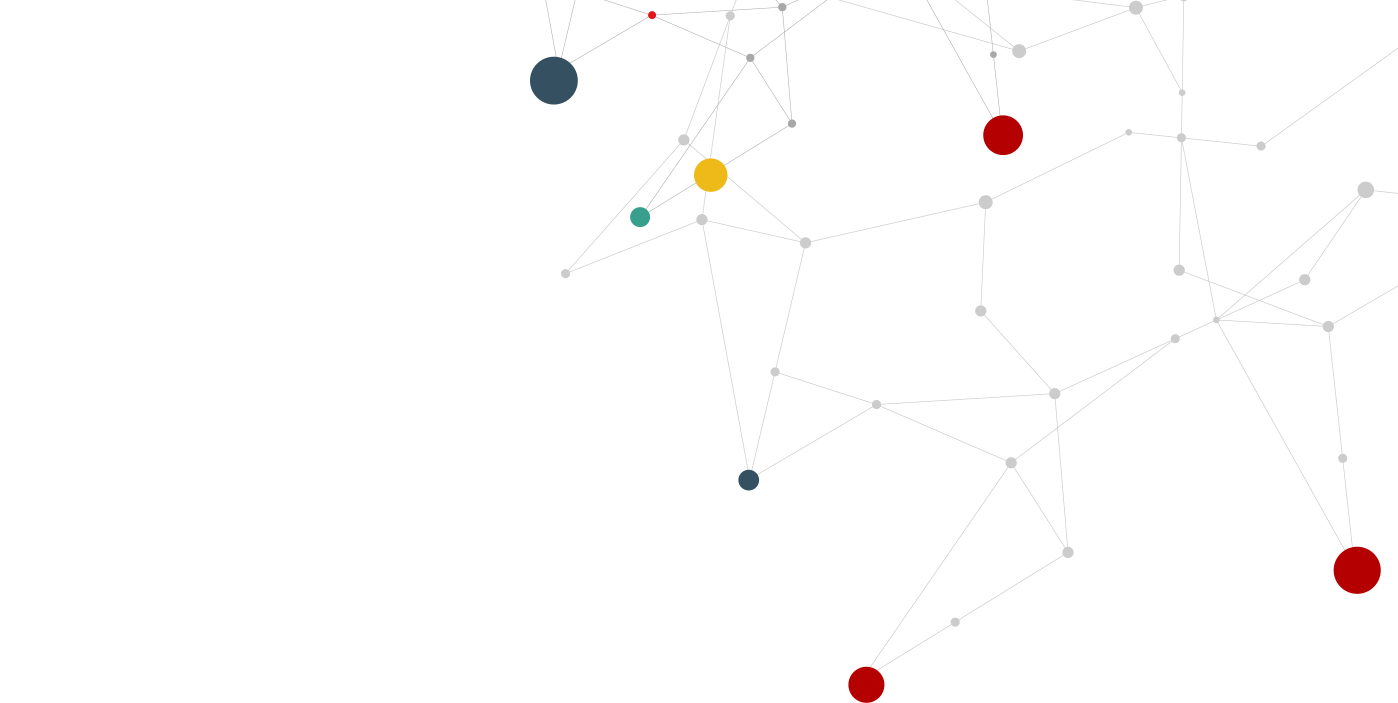
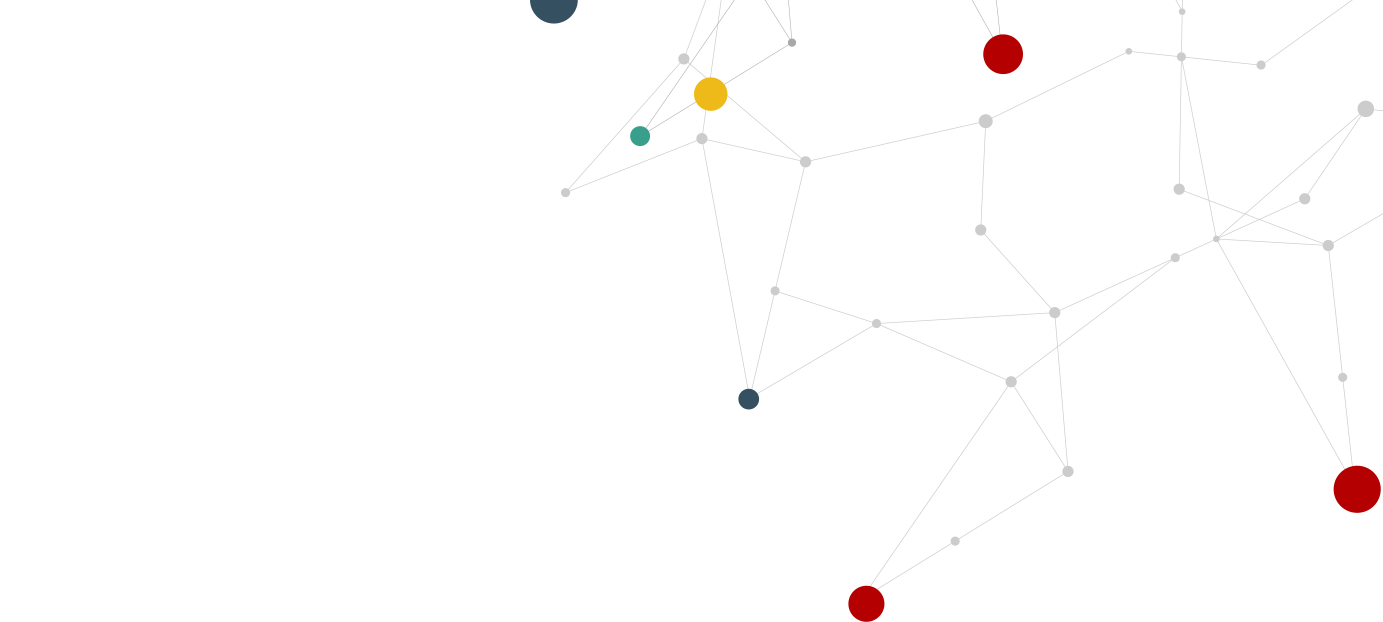
symptom quiz

diff --git a/src/components/pages/Home/QuizSection/QuizSection.js b/src/components/pages/Home/QuizSection/QuizSection.js
@@ -1,0 +1,85 @@
+import PropTypes from 'prop-types';
+import React from 'react';
+import styled from 'styled-components';
+
+import {mediaBreakpointUp} from '../../../../utils/responsive';
+import Dots from './dot-pattern-quiz.png';
+
+const Background = styled.img`
+  min-width: 809px;
+  position: absolute;
+  right: 50%;
+  width: 50%;
+  z-index: -1;
+`;
+
+const Content = styled.div`
+  max-width: 490px;
+  padding: 12rem 0 15rem;
+
+  ${mediaBreakpointUp('lg')} {
+    margin-left: 50%;
+  }
+
+  h2 {
+    margin: 0 0 3rem;
+  }
+
+  h3 {
+    font-size: 1.8rem;
+    font-weight: 800;
+    line-height: 1.55;
+    margin: 0 0 4rem;
+    text-transform: uppercase;
+  }
+
+  p {
+    margin: 0 0 3.5rem;
+    line-height: 1.75;
+  }
+`;
+
+const StartQuizBtn = styled.button`
+  align-items: center;
+  background: none;
+  background-color: ${props => props.theme.red};
+  border: none;
+  border-radius: 50%;
+  color: #fff;
+  cursor: pointer;
+  display: flex;
+  font-size: 1.8rem;
+  font-weight: 700;
+  height: 190px;
+  justify-content: center;
+  margin-left: -20px;
+  text-transform: uppercase;
+  width: 190px;
+`;
+
+const Wrapper = styled.div`
+  /* background-image: ${`url('${Dots}')`};
+  background-position: 0 0;
+  background-repeat: no-repeat;
+  background-size: 1600px auto; */
+`;
+
+const QuizSection = ({children, ...props}) => {
+  return (
+    <Wrapper {...props}>
+      <Background src={Dots} />
+      <div className="container">
+        <Content>
+          {children}
+          <StartQuizBtn>Start Quiz</StartQuizBtn>
+        </Content>
+      </div>
+    </Wrapper>
+  );
+};
+
+QuizSection.propTypes = {
+  children: PropTypes.oneOfType([PropTypes.node, PropTypes.arrayOf(PropTypes.node)])
+};
+
+export default QuizSection;

diff --git a/src/components/pages/Home/Home.js b/src/components/pages/Home/Home.js
@@ -4,6 +4,7 @@ import {ButtonPrimary} from '../../shared/Button';
 // import PropTypes from 'prop-types'
 import Hero from './Hero';
 import PatientExamplesSection from './PatientExamplesSection';
+import QuizSection from './QuizSection/QuizSection';
 import RiskSection from './RiskSection';
 
 const Home = () => {
@@ -61,6 +62,18 @@ const Home = () => {
           magna aliqua.
         </p>
       </PatientExamplesSection>
+      <QuizSection>
+        <h2>Symptom Quiz</h2>
+        <p>
+          Lorem ipsum dolor sit amet, consectetur adipiscing elit, sed do eiusmod tempor incididunt ut labore et dolore
+          magna aliqu consectetur adipiscing elit ipsum dolor.
+        </p>
+        <h3>
+          Test your knowledge of HAE
+          <br />
+          with our quiz.
+        </h3>
+      </QuizSection>
       <h2>home page</h2>
     </div>
   );

diff --git a/src/components/pages/Home/Hero/Hero.js b/src/components/pages/Home/Hero/Hero.js
@@ -159,11 +159,12 @@ const ScrollTo = styled.button`
 
 const Wrapper = styled.div`
   background-image: ${() => `url('${Dots}')`};
-  background-size: 100% auto;
+  background-size: contain;
   background-repeat: no-repeat;
   background-position: 0 0;
 
   ${mediaBreakpointUp('lg')} {
+    background-position: 100% 0;
     display: grid;
     grid-gap: 130px;
     grid-template-columns: auto 40%;

diff --git a/src/components/pages/Home/QuizSection/index.js b/src/components/pages/Home/QuizSection/index.js
@@ -1,0 +1,3 @@
+import QuizSection from './QuizSection';
+
+export default QuizSection;
